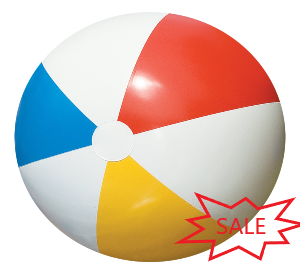
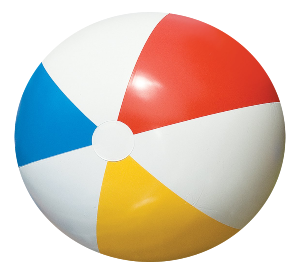
addedsaleandnewstickers

Changed region(s): [[0.57, 0.7033, 1.0, 0.967]]

diff --git a/index.html b/index.html
@@ -40,6 +40,7 @@ https://www.afar.com/places/bula-surf-shop
     <title>P02 - Beach Stuff </title>
 	   <link href="css/main.css" rel="stylesheet">
     <link href="css/normalize.css" rel="stylesheet">
+    
 
       </head>
 
@@ -72,25 +73,35 @@ https://www.afar.com/places/bula-surf-shop
 
 <div class="parent-container">
 
- 
+  
 
  <div class="product-container">
 
-
+ 
   <div class="product-item">
+        <div class="new-tag"> NEW </div>
+
     <img class="img" src="img/beachrug.png" alt="beachrug-image">
     <div class="item-name">
-    <p> BEACH RUG </p>
+    <p> $4.00/hr </p>
+    <p>BEACH RUG </p>
     </div>
     <div class="rent-button">
-    <a href="productinfo.html">Rent</a>
+    <a href="productinfo2.html">Rent</a>
     </div>
   </div>
 
+
+
+
+
   <div class="product-item">
-    <img class="img" src="img/fishweighbag.png" alt="tent-image">
+        <div class="new-tag"> NEW </div>
+
+    <img class="img" src="img/tent1.png" alt="tent-image">
     <div class="item-name">
-    <p> FISH WEIGH BAG </p>
+      <p> $5.00/hr </p>
+    <p> FAMILY TENT </p>
     </div>
     <div class="rent-button">
     <a href="productinfo.html">Rent</a>
@@ -99,8 +110,11 @@ https://www.afar.com/places/bula-surf-shop
 
 
   <div class="product-item">
+    <div class="new-tag"> NEW </div>
+
     <img class="img" src="img/flipflops.png" alt="tent-image">
     <div class="item-name">
+      <p> $3.00/hr </p>
     <p> FLIP-FLOPS </p>
     </div>
     <div class="rent-button">
@@ -109,8 +123,10 @@ https://www.afar.com/places/bula-surf-shop
   </div>
 
   <div class="product-item">
+    <div class="new-tag"> NEW </div>
     <img class="img" src="img/beachhat.png" alt="tent-image">
     <div class="item-name">
+      <p> $2.00/hr </p>
     <p> LADIES SUN HAT </p>
     </div>
     <div class="rent-button">
@@ -119,8 +135,12 @@ https://www.afar.com/places/bula-surf-shop
   </div>
 
   <div class="product-item">
+    <div class="sale-tag"> SALE </div>
     <img class="img" src="img/beachball.png" alt="tent-image">
      <div class="item-name">
+    <span class="original-price"> $5.99/hr</span>
+    <span class="sale-price"> 3.99/hr</span>
+
     <p> BEACH BALL </p>
   </div>
     <div class="rent-button">
@@ -129,8 +149,11 @@ https://www.afar.com/places/bula-surf-shop
   </div>
 
   <div class="product-item">
+    <div class="sale-tag"> SALE </div>
     <img class="img" src="img/shovel.png" alt="tent-image">
      <div class="item-name">
+    <span class="original-price"> $7.99/hr</span>
+    <span class="sale-price"> 4.99/hr</span>
     <p> BEACH SHOVEL </p>
   </div>
     <div class="rent-button">
@@ -140,8 +163,11 @@ https://www.afar.com/places/bula-surf-shop
 
 
   <div class="product-item">
+    <div class="sale-tag"> SALE </div>
     <img class="img" src="img/tent2.png" alt="tent-image">
     <div class="item-name">
+    <span class="original-price"> $12.99/hr</span>
+    <span class="sale-price"> 10.99/hr</span>
     <p> CANOPY TENT </p>
   </div>
     <div class="rent-button">
@@ -151,8 +177,13 @@ https://www.afar.com/places/bula-surf-shop
 
 
   <div class="product-item">
+    <div class="sale-tag"> SALE </div>
     <img class="img" src="img/surfboard.png" alt="surf-image">
+      
+
 <div class="item-name">
+   <span class="original-price"> $10.99/hr</span>
+    <span class="sale-price"> 9.99/hr</span>
     <p> SURFBOARD </p>
   </div>
     <div class="rent-button">
@@ -168,4 +199,19 @@ https://www.afar.com/places/bula-surf-shop
 
 
   </body>
+
+
+  <footer>
+
+     <div class="rent-button-footer">
+    <a href="https://github.com/pradeesh1811/BeachStuff_A2_V1.1.git">GitHub Repository</a>
+    </div>
+
+
+    <div class="rent-button-footer">
+    <a href="http://www.sfu.ca/~pmotha/IAT_339_Assignment2/index.html">Style Guide</a>
+    </div>
+
+
+  </footer>
   </html>

diff --git a/productinfo2.html b/productinfo2.html
@@ -44,13 +44,13 @@
 
 <div class="product-description-content">
   
-  <img class="product-description-image" src="img/surfboarddetail.png" alt="surfboarddetail">
+  <img class="product-description-image2" src="img/flipflops.png" alt="surfboarddetail">
   
 
-  <div class="product-desciption-text">
-  <h2> Odysea Surfboard </h2>
+  <div class=" product-desciption-text">
+  <h3> Reebok Flip-Flops (White only)</h3>
   
-  <p>Everybody needs a soft top in their quiver as it makes even the sloppiest of summer <br>waves as fun as any. The ultimate shore break longboard. Summer is on!</p>
+  <p>Providing all-day comfort for warm-weather excursions, the Super Coil 2.0 <br>flip-flop combines a plush footbed made from quick-drying material <br>with a molded strap that contours to your foot.</p>
   </div>
 
 </div>
@@ -69,13 +69,17 @@
   <input type="checkbox" id="option3" name="option3" value="option3">
   <label for="option3"> 6 Hour - $7.00</label><br><br>
   <div class="button">
-      <button href= "paymentpage.html" >Submit </button>
+      <button ref= "paymentpage.html" >Submit </button>
       </div>
 </form>
 
 
 
   </div>
+
+
+
+
 
 
 </div>

diff --git a/main.css b/main.css
@@ -89,8 +89,6 @@ header{
 
 
 
-
-
 /*  NAV BAR  */
 
 
@@ -165,6 +163,25 @@ header{
 .item-name{
   text-align: center;
 }
+
+
+.original-price{
+
+
+
+text-decoration: line-through;
+
+}
+
+
+
+
+
+
+
+
+
+
 
 .img{
   background-color: #FDEC94;
@@ -420,6 +437,15 @@ height:16rem;
   margin-left:2rem;
 }
 
+
+.product-description-image2{
+
+width:40rem;
+height:16rem;
+
+
+}
+
 /*product description*/
 
 
@@ -541,7 +567,26 @@ font-size:1.5rem;
 
 
 
+/*footer styling*/
 
+
+
+.rent-button-footer a{
+
+
+text-decoration: none;
+  color: white;
+  border-style:solid;
+  border-width:0.01rem;
+  border-radius:0.5rem;
+background-color: #45A2B7;
+ padding:0.3rem 0.3rem 0.3rem;
+}
+.rent-button-footer:hover{
+  background-color: #FF7A00;
+  color: white;
+  cursor:pointer;
+}
 
 
 

diff --git a/css/main.css b/css/main.css
@@ -166,12 +166,46 @@ header{
   text-align: center;
 }
 
+
+.original-price{
+
+
+  text-decoration: line-through;
+}
+
+
+.sale-price{
+
+  color:red;
+  font-weight: bold;
+}
+
+
+
+
+
+
+
 .img{
-  background-color: #FDEC94;
+  /*background-color: #FDEC94;*/
   border:solid;
   border-width:0.05rem;
   width:100%;
   height: auto;
+}
+.sale-tag{
+  position:absolute;
+  background-color:red;
+  color:white;
+  padding:0.5rem 0.5rem;
+
+}
+.new-tag{
+  position:absolute;
+  background-color:green;
+  color:white;
+  padding:0.5rem 0.5rem;
+
 }
 
 

diff --git a/about.html b/about.html
@@ -57,7 +57,7 @@
 
   <div class="about-text">
  
- <h3> A Little Story About Us </h3>
+ <h2> A Little Story About Us </h2> 
  <p>
   This whole adventure started in 2012 with a tiny shop lovingly built with the help of family <br>& friends in an amazing community. After over a decade of working in the fashion industry I <br>decided to leave the city and look for a more meaningful lifestyle. California and it's waves <br>have stolen my heart and I've never looked back!
 

diff --git a/myaccount.html b/myaccount.html
@@ -42,11 +42,11 @@
 
 
 <div class="myaccount-titles-container">
-<div class=" myrentals-title">
+<div class="myrentals-title">
 <a href="myaccount.html">My Rentals</a>
 </div>
 
-<div class=" myreviews-title">
+<div class="myreviews-title">
 <a href="review.html">My Reviews</a>
 </div>
 

diff --git a/contact.html b/contact.html
@@ -71,8 +71,8 @@
 			<input type="text" id="contact-message" placeholder="Enter your message...">
 			<br><br><br>
 
-			<div class="button">
-			<button ref= "index.html" >Submit </button>
+			<div class="rent-button">
+			<a href= "index.html" >Submit </a>
 			</div>
 
 	</div> 
